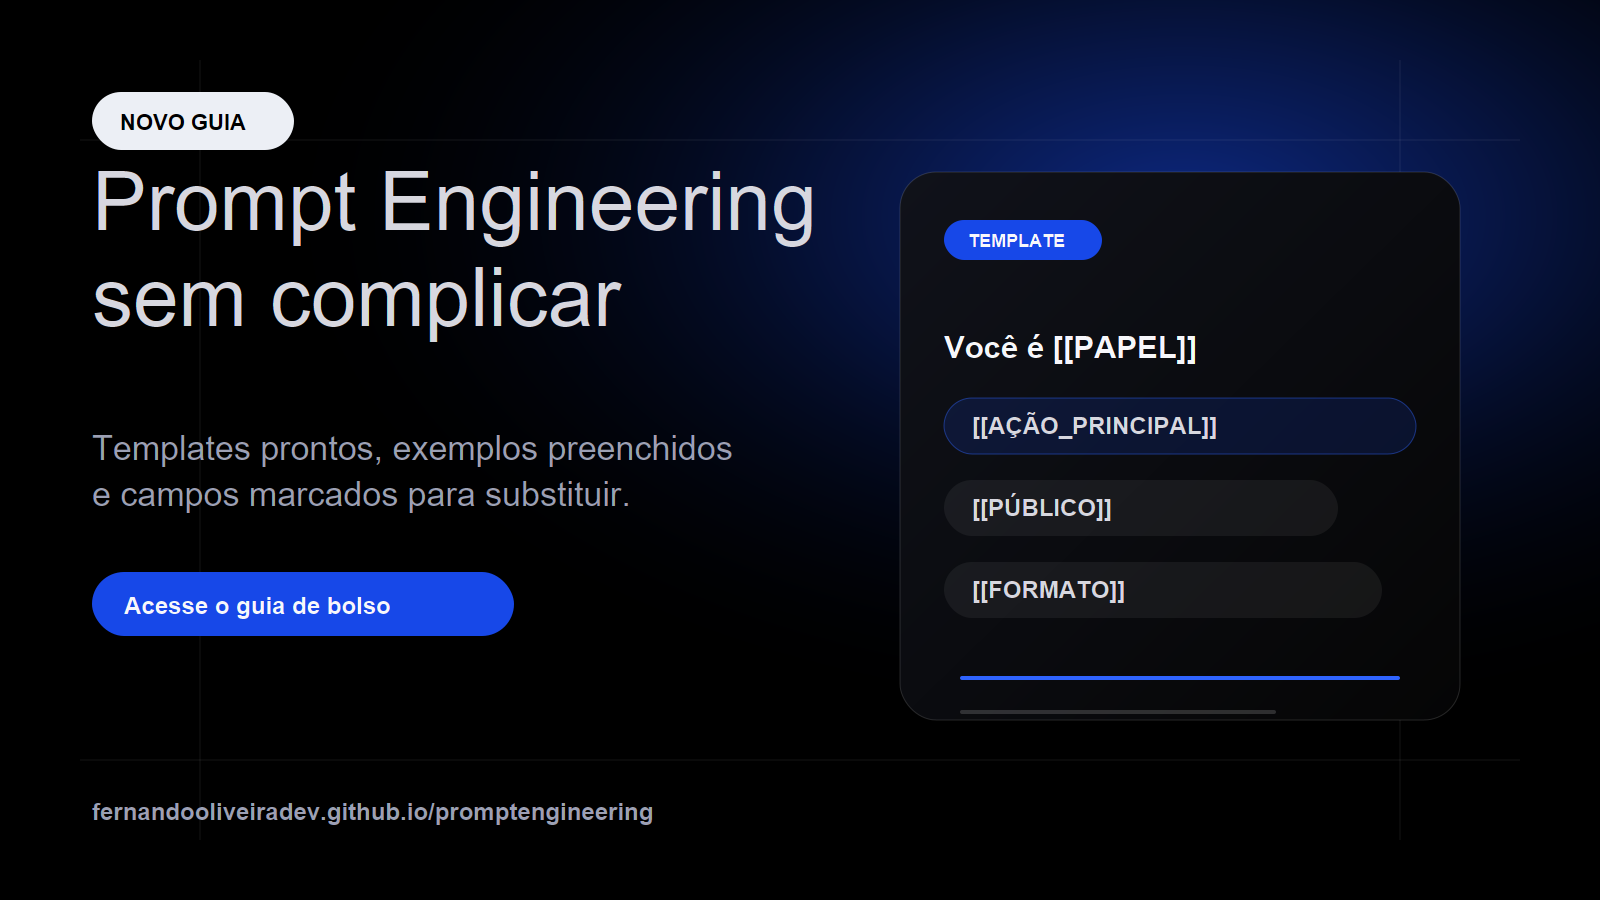
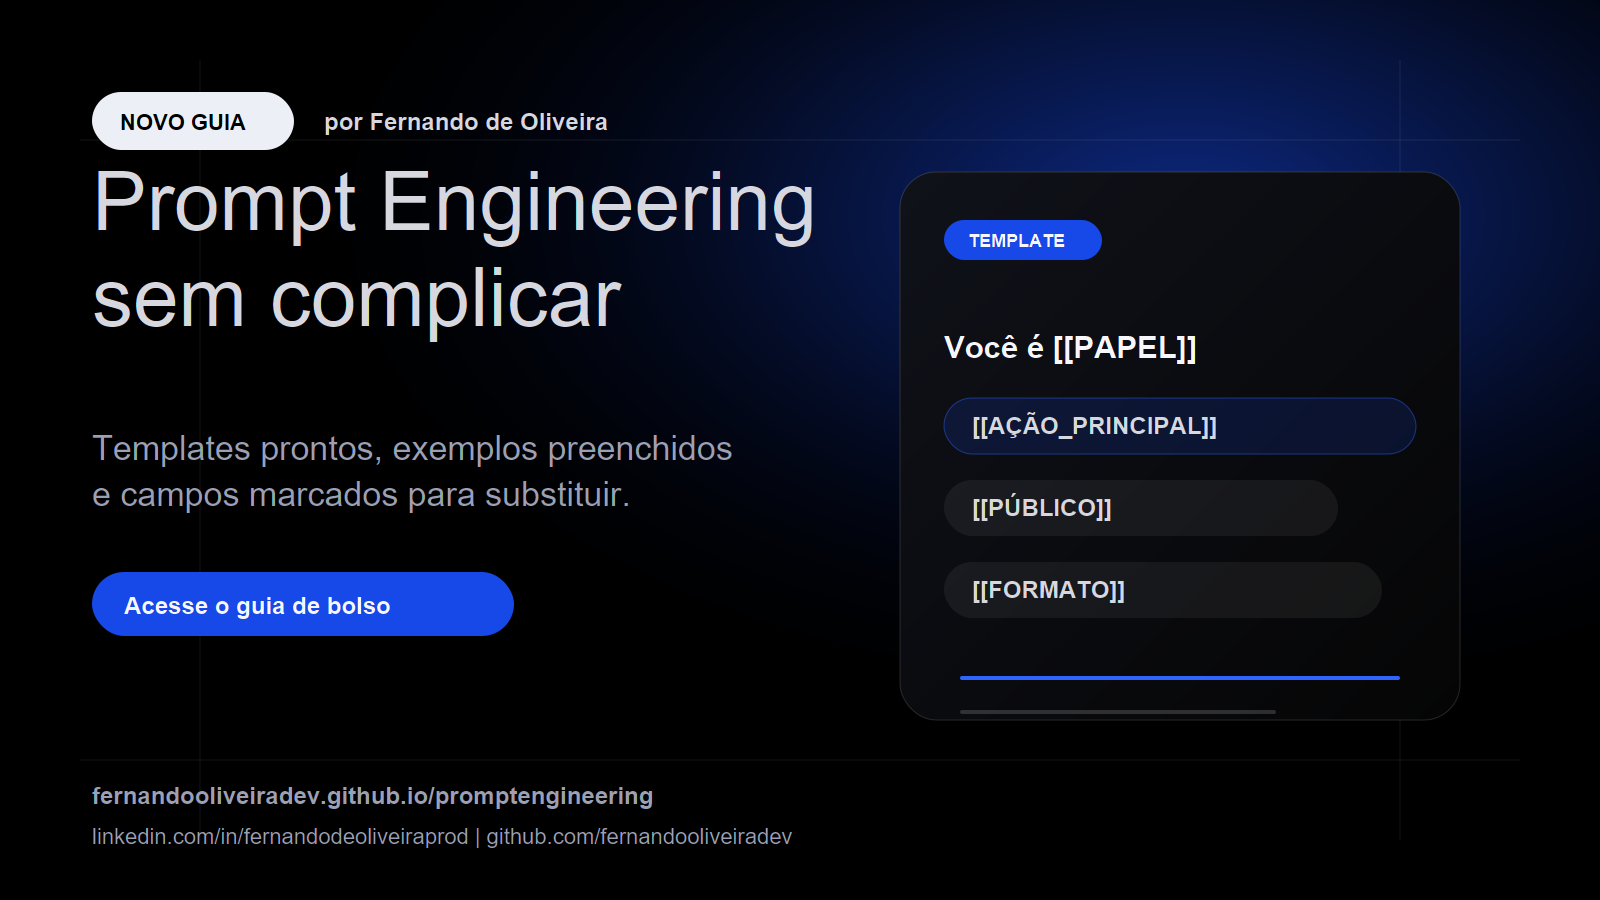
Add author profile links

Changed region(s): [[0.0625, 0.8711, 0.5, 0.9333], [0.1875, 0.1244, 0.375, 0.1556]]

diff --git a/index.html b/index.html
@@ -7,6 +7,14 @@
       name="description"
       content="Guia amigável de prompt engineering com frameworks, templates marcados para substituir e exemplos práticos."
     />
+    <meta name="author" content="Fernando de Oliveira" />
+    <meta property="og:title" content="Prompt Engineering: Guia de Bolso" />
+    <meta
+      property="og:description"
+      content="Um guia prático de Fernando de Oliveira para escolher frameworks, montar prompts melhores e copiar templates prontos."
+    />
+    <meta property="og:image" content="https://fernandooliveiradev.github.io/promptengineering/assets/whatsapp-banner.png" />
+    <meta property="og:type" content="website" />
     <title>Prompt Engineering: Guia de Bolso</title>
     <link rel="preconnect" href="https://fonts.googleapis.com" />
     <link rel="preconnect" href="https://fonts.gstatic.com" crossorigin />
@@ -173,6 +181,11 @@
             <p class="mt-6 max-w-2xl text-lg leading-8 text-brand-muted">
               Use este guia para escolher o framework certo, preencher os campos marcados e transformar pedidos vagos em prompts claros.
             </p>
+            <div class="mt-5 flex flex-wrap items-center gap-2 text-sm font-semibold text-brand-muted">
+              <span class="rounded-full border border-white/10 bg-white/5 px-4 py-2">Autor: Fernando de Oliveira</span>
+              <a class="focus-ring rounded-full border border-white/10 bg-white/5 px-4 py-2 text-brand-ink transition hover:border-brand-light/60 hover:text-brand-white" href="https://www.linkedin.com/in/fernandodeoliveiraprod" target="_blank" rel="noopener">LinkedIn</a>
+              <a class="focus-ring rounded-full border border-white/10 bg-white/5 px-4 py-2 text-brand-ink transition hover:border-brand-light/60 hover:text-brand-white" href="https://github.com/fernandooliveiradev" target="_blank" rel="noopener">GitHub</a>
+            </div>
             <div class="mt-8 flex flex-col gap-3 sm:flex-row">
               <a href="#escolha" class="btn btn-light focus-ring">Me ajude a escolher</a>
               <a href="#universal" class="btn btn-ghost focus-ring">Ver template universal</a>
@@ -612,9 +625,14 @@ Depois entregue nota por critério, principal problema, 3 melhorias e versão re
     </main>
 
     <footer class="section-shell py-8 text-sm text-brand-muted">
-      <div class="flex flex-col gap-3 border-t border-white/10 pt-6 sm:flex-row sm:items-center sm:justify-between">
-        <p>Guia de Prompt Engineering. HTML + Tailwind CDN + Encode Sans.</p>
+      <div class="flex flex-col gap-4 border-t border-white/10 pt-6 lg:flex-row lg:items-center lg:justify-between">
+        <div>
+          <p class="font-semibold text-brand-ink">Prompt Engineering: Guia de Bolso</p>
+          <p class="mt-1">Criado por Fernando de Oliveira. HTML + Tailwind CDN + Encode Sans.</p>
+        </div>
         <div class="flex flex-wrap gap-2">
+          <a class="btn btn-ghost focus-ring min-h-10 px-4 text-sm" href="https://www.linkedin.com/in/fernandodeoliveiraprod" target="_blank" rel="noopener">LinkedIn</a>
+          <a class="btn btn-ghost focus-ring min-h-10 px-4 text-sm" href="https://github.com/fernandooliveiradev" target="_blank" rel="noopener">GitHub</a>
           <a class="btn btn-ghost focus-ring min-h-10 px-4 text-sm" href="docs/prompt-engineering.md">Base</a>
           <a class="btn btn-ghost focus-ring min-h-10 px-4 text-sm" href="docs/race.md">RACE</a>
           <a class="btn btn-ghost focus-ring min-h-10 px-4 text-sm" href="docs/care.md">CARE</a>

diff --git a/README.md b/README.md
@@ -1,4 +1,14 @@
-# Prompt Engine — Documentação de Apoio
+# Prompt Engineering: Guia de Bolso
+
+Página publicada: https://fernandooliveiradev.github.io/promptengineering/
+
+Autor: Fernando de Oliveira  
+LinkedIn: https://www.linkedin.com/in/fernandodeoliveiraprod  
+GitHub: https://github.com/fernandooliveiradev
+
+---
+
+## Documentação de Apoio
 
 > Coletânea de documentação profissional para cursos online sobre prompt engineering e frameworks relacionados.
 > Todos os links foram verificados como ativos em junho de 2026.
@@ -52,4 +62,4 @@ Para um curso acadêmico, recomenda-se:
 1. Comece por `prompt-engineering.md` para fundamentos gerais.
 2. Para cursos práticos introdutórios: RACE → TAG → CARE (do mais completo ao mais minimalista).
 3. Para cursos avançados/acadêmicos: ReAct (paper) e BDI (arquitetura de agentes).
-4. Cada arquivo `.md` é autossuficiente e pode ser usado como material de leitura isolado.# promptengineering
+4. Cada arquivo `.md` é autossuficiente e pode ser usado como material de leitura isolado.
